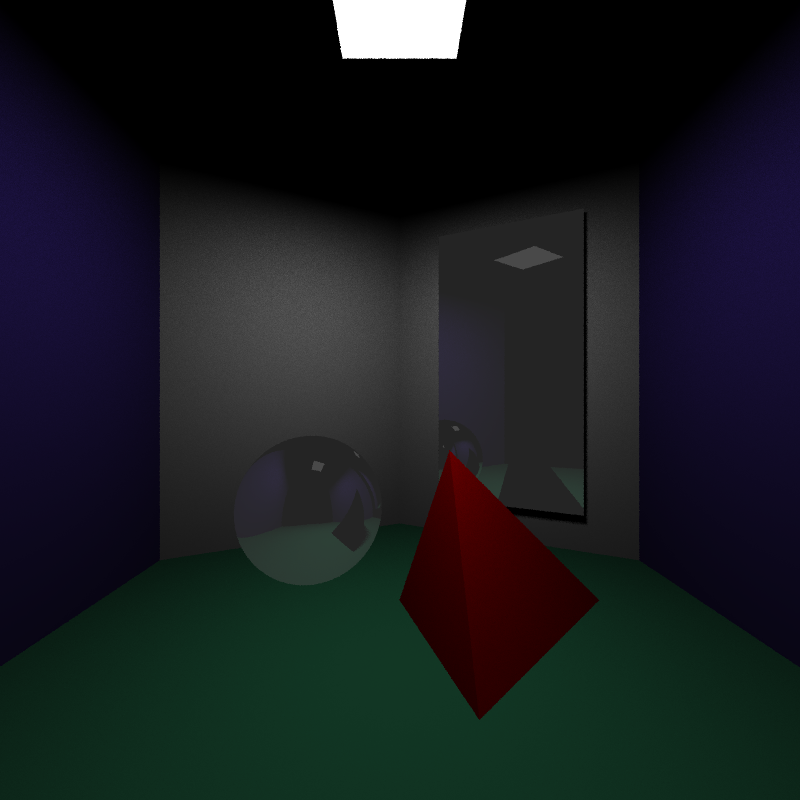
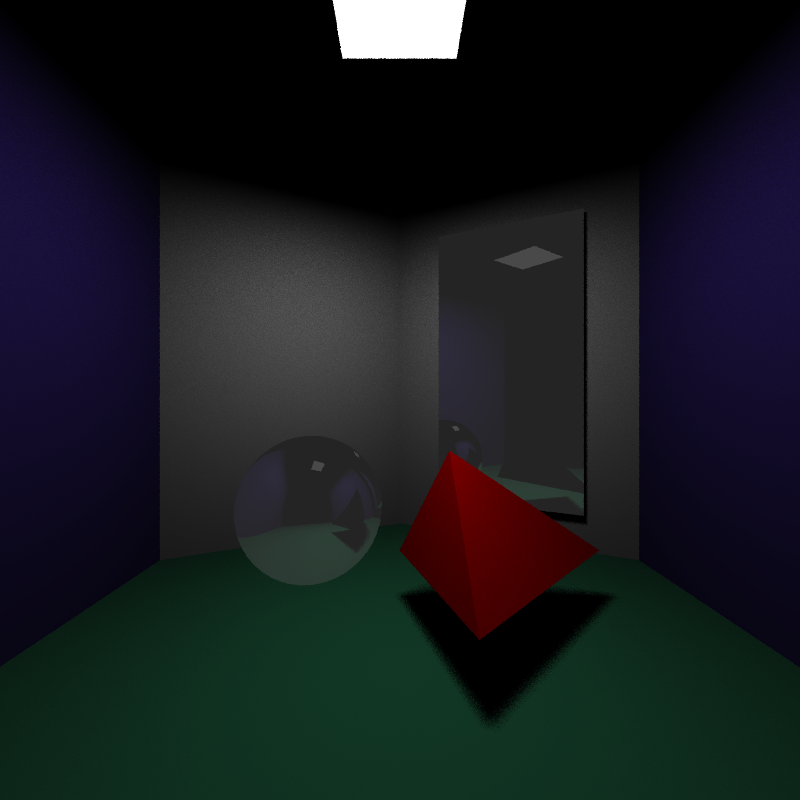
Uppdaterat logiken med att bestämma antal shadow rays och antal reflektioner.
Allt gå på ett snöre, skickar vidare shadow_rays och max_depth från funktion till funktion där de används. Försökte göra get-funktioner i camera.h men hade inte access till dem från tracer.cpp

Changed region(s): [[0.5, 0.5625, 0.75, 0.9062]]

diff --git a/Tracer2/Tracer.cpp b/Tracer2/Tracer.cpp
@@ -90,24 +90,9 @@ double direct_light(Scene& myscene, int shadow_rays, Point3D intersection_point,
 	return radiance;
 }
 
-
-//// Return the amount of indirect light hitting a surface
-//Color indirect_light(Scene& myscene, Vec3 object_normal, Ray& r) {
-//	Vec3 X = unit_vector(r.get_direction() - (dot(r.get_direction(), object_normal) * object_normal));
-//	Vec3 Z = object_normal;
-//	Vec3 Y = cross((X * -1.0f), Z);
-//
-//	//Reflection from a lambertian surface is uniformly distributed in all directions, thus the PDF is constant and equals 1/2pi.
-//	const float PDF = 1 / (2 * M_PI);
-//
-//	for (int i = 0; i < myscene.get_lights(); i++) {
-//
-//	}
-//}
-
-Color path_tracer(Scene myscene, Ray& r) {
+Color path_tracer(Scene myscene, Ray& r, int shadow_rays, int max_depth) {
 	// Build a ray path and save the final ray
-	Ray last_ray = build_path(myscene, r);
+	Ray last_ray = build_path(myscene, r, shadow_rays, max_depth);
 
 	// Start from the final ray in the ray path and calculate the resulting color
 	Color pixel_color = terminate_ray(myscene, last_ray);
@@ -119,9 +104,8 @@ Color path_tracer(Scene myscene, Ray& r) {
 	return pixel_color;
 }
 
-Ray build_path(Scene myscene, Ray& origin_ray) {
-
-	if (origin_ray.depth >= 7) {
+Ray build_path(Scene myscene, Ray& origin_ray, int shadow_rays, int max_depth) {
+	if (origin_ray.depth >= max_depth) {
 		// sanity check
 		return origin_ray;
 	}
@@ -147,7 +131,7 @@ Ray build_path(Scene myscene, Ray& origin_ray) {
 
 	if (nearest_object != nullptr) {
 		// Get the radiance from direct light, and color as well as rho for the material.
-		origin_ray.radiance = nearest_object->get_material().get_radiance(myscene, origin_ray, nearest_rec);
+		origin_ray.radiance = nearest_object->get_material().get_radiance(myscene, origin_ray, nearest_rec, shadow_rays);
 		origin_ray.color = nearest_object->get_material().get_color();
 		origin_ray.rho = nearest_object->get_material().get_rho();
 
@@ -161,7 +145,7 @@ Ray build_path(Scene myscene, Ray& origin_ray) {
 		ref_ray = nearest_object->get_material().reflect_ray(myscene, origin_ray, nearest_rec, origin_ray.depth + 1);
 		origin_ray.next_ray = ref_ray;
 		ref_ray->prev_ray = &origin_ray;
-		return build_path(myscene, *ref_ray);
+		return build_path(myscene, *ref_ray, shadow_rays, max_depth);
 	}
 	else {
 		// No collision, terminate ray

diff --git a/Tracer2/Material.cpp b/Tracer2/Material.cpp
@@ -11,12 +11,12 @@ Color Material::scatter(Scene& myscene, const Ray& r, hit_record& rec, int depth
 }
 
 // Get the radiance from direct light and such
-double Material::get_radiance(Scene myscene, Ray& r, hit_record rec) {
+double Material::get_radiance(Scene myscene, Ray& r, hit_record rec, int shadow_rays) {
 	if (lum > 0 || mirror || is_transparent)
 		return 1;
 	else {
 		// do direct light calculations
-		return direct_light(myscene, 3, r.at(rec.t), rec.normal);
+		return direct_light(myscene, shadow_rays, r.at(rec.t), rec.normal);
 	}
 }
 
@@ -133,12 +133,10 @@ Ray* Material::transparent(Scene& myscene, const Ray& r, hit_record& rec){
 
 	if (rand <= R_coeff && false) {
 		Ray* refl_ray = new Ray(r.at(rec.t), R);
-		reflected_rays++;
 		return refl_ray;	//Trace the reflection ray
 	}
 	else {
 		Ray* refr_ray = new Ray(r.at(rec.t), d_ref);
-		refracted_rays++;
 		return refr_ray; 	//Trace the refraction ray
 	}
 }

diff --git a/Tracer2/Main.cpp b/Tracer2/Main.cpp
@@ -79,9 +79,9 @@ int main()
 	Sphere center_ball(Point3D(6, 0, -3.7), 1.3, GLASS, WHITE);
 
 	// A tetrahedron
-	Point3D tr0(5, 1, -5);
-	Point3D tr1(8, 0, -5);
-	Point3D tr2(8, 4, -5);
+	Point3D tr0(5, 1, -4);
+	Point3D tr1(8, 0, -4);
+	Point3D tr2(8, 4, -4);
 	Point3D tr3(8, 1, -2);
 	Triangle tetra_bottom(tr0, tr1, tr2, red_cornell);
 	Triangle tetra_left(tr3, tr1, tr0, red_cornell);
@@ -140,11 +140,6 @@ int main()
 	clock_t tStart = clock();
 
 	cam1.take_picture(scene0, "glass_test_6aa");
-
-	// reflected_rays and refracted_rays are global variables declared in Scene.h (since it's common to both Main and Material)
-	// VERY BAD PROGRAMMING PRACTICE!!
-	std::cout << "\nNumber of reflected rays: " << reflected_rays;
-	std::cout << "\nNumber of refracted rays: " << refracted_rays;
 
 	printf("\nTime taken: %.2fs\n", ((double)clock() - tStart) / CLOCKS_PER_SEC);
 }

diff --git a/Tracer2/Tracer.h b/Tracer2/Tracer.h
@@ -16,7 +16,7 @@ Color trace_ray(Scene myscene, const Ray& r, int depth);
 double direct_light(Scene& myscene, int shadow_rays, Point3D intersection_point, Vec3 object_normal);
 
 // The path tracer starts by building a path, then goes through the path in reverse and returns a color
-Color path_tracer(Scene myscene, Ray& r);
+Color path_tracer(Scene myscene, Ray& r, int shadow_rays, int max_depth);
 
 void print_raypath(Ray& first_ray);
 
@@ -26,6 +26,6 @@ void print_reverse_raypath(Ray& last_ray);
 void delete_raypath(Ray* first_ray);
 
 // Takes a ray originating from the camera viewport, builds a ray path and then returns the final ray (termination)
-Ray build_path(Scene myscene, Ray& origin_ray);
+Ray build_path(Scene myscene, Ray& origin_ray, int shadow_rays, int max_depth);
 
 Color terminate_ray(Scene myscene, Ray& r);

diff --git a/Tracer2/Camera.cpp b/Tracer2/Camera.cpp
@@ -38,7 +38,7 @@ void Camera::take_picture(Scene myscene, std::string filename) const {
 				//pixel_color += send_ray(myscene, r, max_depth);
 				//pixel_color += trace_ray(myscene, r, max_depth);
 				//Ray last_ray = build_path(myscene, r);
-				pixel_color += path_tracer(myscene, r);
+				pixel_color += path_tracer(myscene, r, shadow_rays, max_depth);
 			}
 
 			auto scale = 1.0 / samples_per_pixel;

diff --git a/Tracer2/Material.h b/Tracer2/Material.h
@@ -39,7 +39,7 @@ public:
 
 	Ray* transparent(Scene& myscene, const Ray& r, hit_record& rec);
 
-	double get_radiance(Scene myscene, Ray& r, hit_record rec);
+	double get_radiance(Scene myscene, Ray& r, hit_record rec, int shadow_rays);
 
 	double get_rho() {
 		return rho;

diff --git a/Tracer2/Scene.h b/Tracer2/Scene.h
@@ -2,9 +2,6 @@
 
 #include <vector>
 #include "Shape.h"
-
-int reflected_rays = 0;
-int refracted_rays = 0;
 // A collection of objects to be rendered
 
 class Scene {
